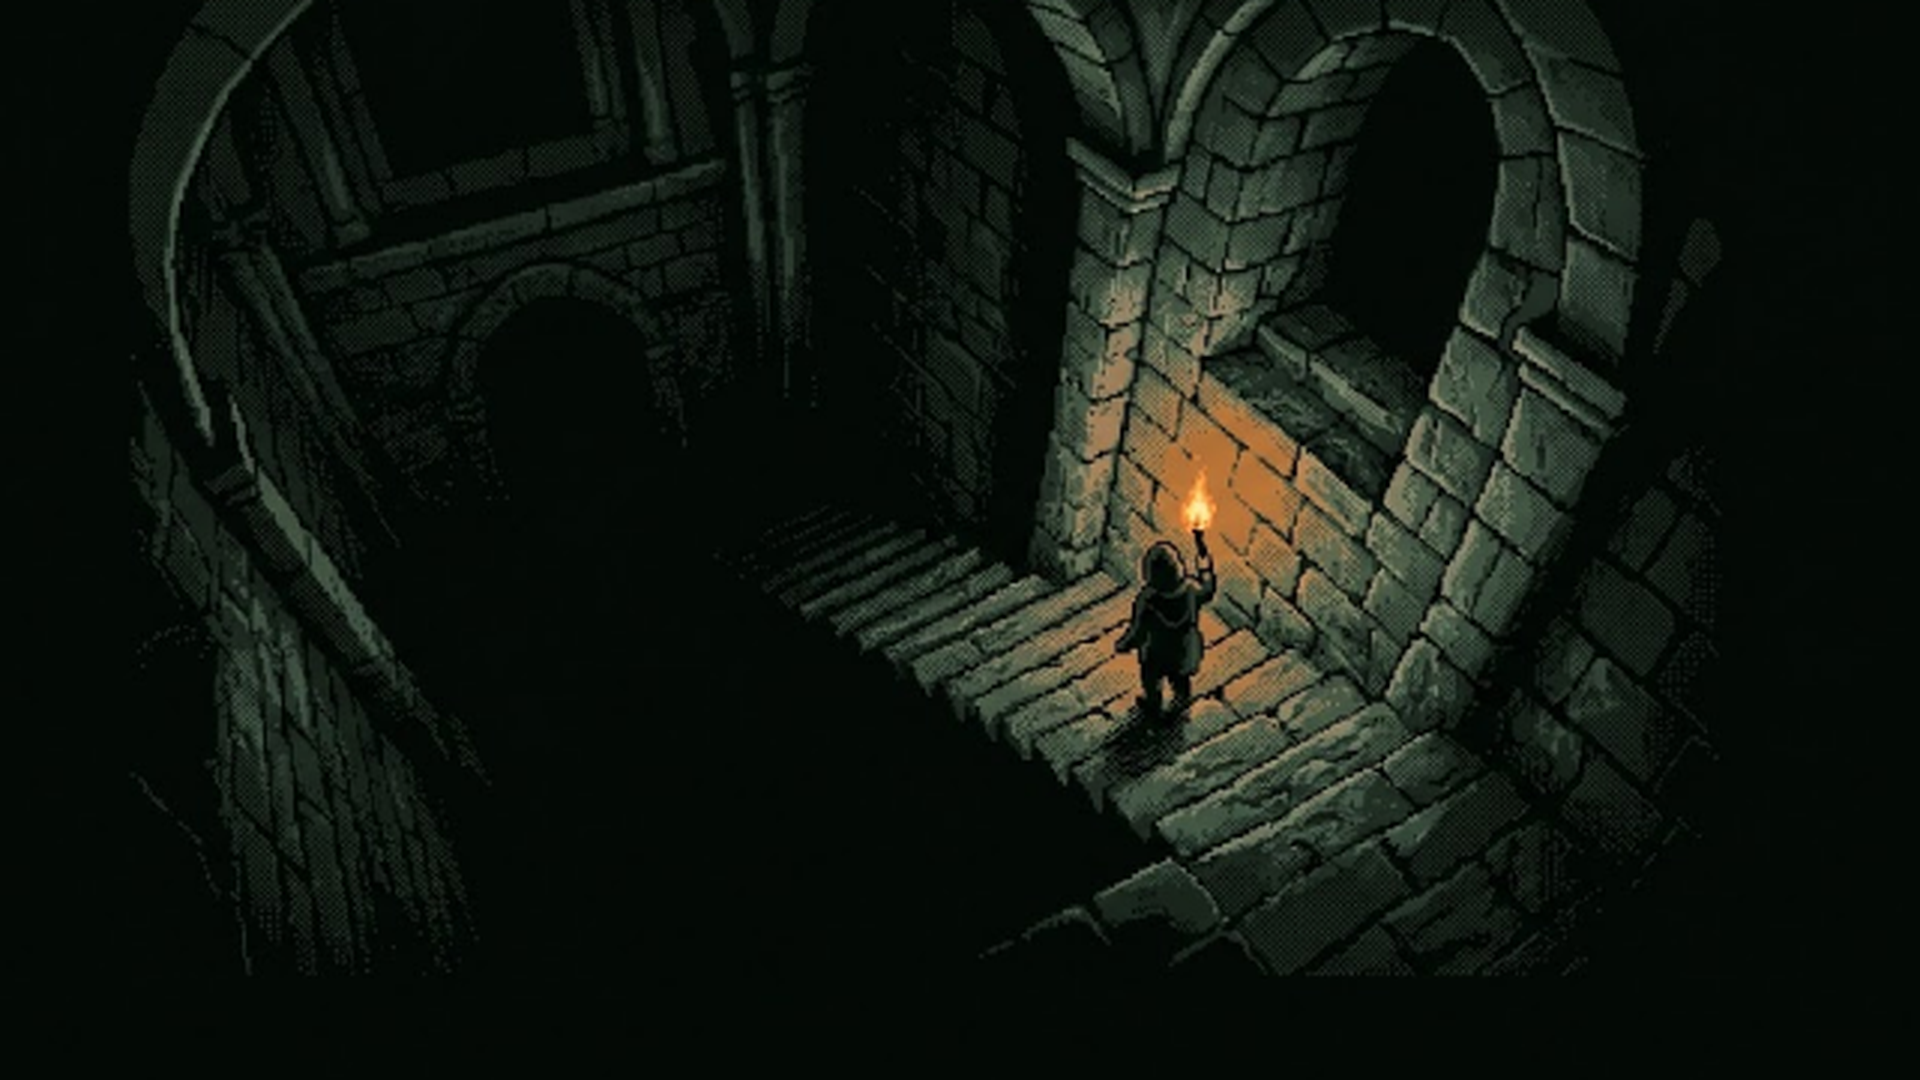
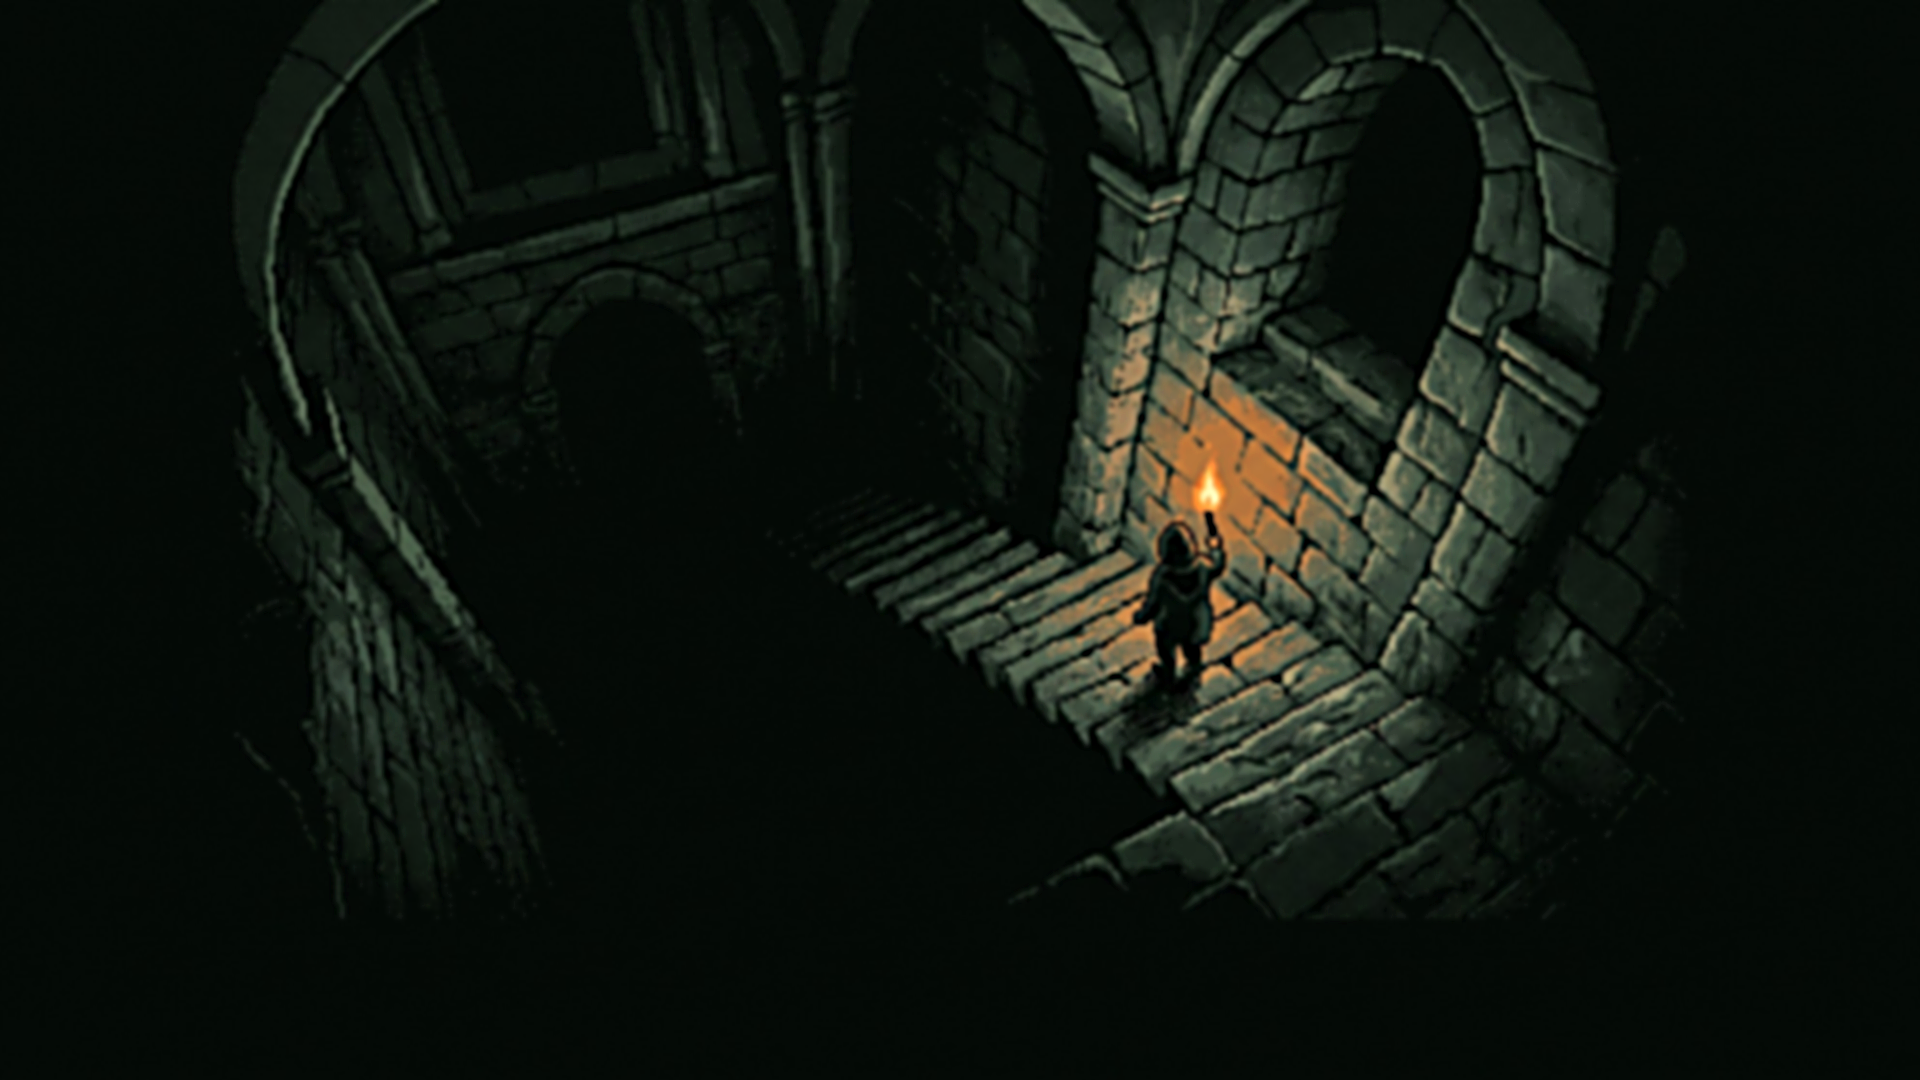
Ilustraciones nuevas de la intro, suavizadas y con el fuego propio

diff --git a/js/juego.js b/js/juego.js
@@ -252,14 +252,16 @@ window.openTitleMenu = () => {
 const ARTE_INTRO = {};
 for (const n of ['velombra', 'escalera', 'rey_llama', 'rey_apagada', 'velombra_apagada', 'boca']) ARTE_INTRO[n] = Object.assign(new Image(), { src: `interfaz/intro/${n}.png` });
 // El fuego del dibujo se mueve por filas: abajo queda quieto, sobre el cuenco, y arriba ondula más
-const LLAMA = { x: 188, w: 124, arriba: 6, abajo: 127 };
-function ondular(c, img, t, fuerza) {
-  const { x, w, arriba, abajo } = LLAMA, alto = abajo - arriba;
-  for (let y = arriba; y < abajo; y++) {
-    const k = Math.pow((abajo - y) / alto, 1.3);
-    const d = (Math.sin(y * 0.11 - t * 6.5) * 2.6 + Math.sin(y * 0.27 - t * 10.5) * 1.1) * k * fuerza;
-    const sube = (Math.sin(t * 7.3) * 0.5 + 0.5) * 5 * k * fuerza;
-    c.drawImage(img, x * 4, (y + sube) * 4, w * 4, 4, x + d, y, w, 1);
+const LLAMA = { x: 186, w: 112, arriba: 1, abajo: 112 };
+const LLAMA_TEMPLO = { x: 298, w: 28, arriba: 78, abajo: 97 };
+const LLAMA_ANTORCHA = { x: 293, w: 18, arriba: 109, abajo: 128 };
+function ondular(c, img, t, fuerza, zona = LLAMA) {
+  const { x, w, arriba, abajo } = zona, alto = abajo - arriba, paso = 0.25, f = fuerza * alto / 110;
+  for (let y = arriba; y < abajo; y += paso) {
+    const k = Math.pow((abajo - y) / alto, 1.3), r = (y - arriba) * 110 / alto;
+    const d = (Math.sin(r * 0.11 - t * 6.5) * 2.6 + Math.sin(r * 0.27 - t * 10.5) * 1.1) * k * f;
+    const sube = (Math.sin(t * 7.3) * 0.5 + 0.5) * 5 * k * f;
+    c.drawImage(img, x * 4, Math.round((y + sube) * 4), w * 4, 1, x + d, y, w, paso + 0.02);
   }
 }
 
@@ -268,14 +270,14 @@ function dibujarReyLlama(c, t) {
   if (k > 0) {
     ondular(c, ARTE_INTRO.rey_llama, t, 1);
     const luz = 0.1 + Math.sin(t * 9) * 0.03 + Math.sin(t * 23) * 0.02;
-    const g = c.createRadialGradient(245, 95, 8, 245, 95, 150);
+    const g = c.createRadialGradient(242, 80, 8, 242, 80, 150);
     g.addColorStop(0, `rgba(255, 130, 40, ${luz})`); g.addColorStop(1, 'rgba(255, 130, 40, 0)');
     c.save(); c.globalCompositeOperation = 'lighter'; c.fillStyle = g; c.fillRect(0, 0, 480, 270); c.restore();
     c.fillStyle = '#ffb45a';
     for (let i = 0; i < 12; i++) {
       const f = (t * 0.45 + hash2(i, 3, 9)) % 1;
       c.globalAlpha = (1 - f) * k;
-      c.fillRect(218 + hash2(i, 5, 2) * 50 + Math.sin(t * 3 + i) * 5, 118 - f * 112, 1, 1);
+      c.fillRect(216 + hash2(i, 5, 2) * 52 + Math.sin(t * 3 + i) * 5, 104 - f * 100, 0.5, 0.5);
     }
     c.globalAlpha = 1;
   }
@@ -288,8 +290,8 @@ function dibujarReyLlama(c, t) {
 }
 
 const ESCENAS_INTRO = [
-  { art: 'velombra', nitida: true, ramp: 'crypt', pan: [0, 0, 0, 0], sfx: 'fire', dibujar: (c, t) => drawFlame(c, 310, 97, 16, 24, t, 1, 'fuegoX') },
-  { art: 'escalera', nitida: true, ramp: 'crypt', pan: [0, 0, 0, 0], sfx: 'stairs', dibujar: (c, t) => drawFlame(c, 298, 134, 12, 20, t, 1, 'fuegoX') },
+  { art: 'velombra', nitida: true, ramp: 'crypt', pan: [0, 0, 0, 0], sfx: 'fire', dibujar: (c, t) => ondular(c, ARTE_INTRO.velombra, t, 1, LLAMA_TEMPLO) },
+  { art: 'escalera', nitida: true, ramp: 'crypt', pan: [0, 0, 0, 0], sfx: 'stairs', dibujar: (c, t) => ondular(c, ARTE_INTRO.escalera, t, 1, LLAMA_ANTORCHA) },
   { art: 'rey_llama', nitida: true, ramp: 'crypt', pan: [0, 0, 0, 0], sfx: 'fire', dibujar: dibujarReyLlama },
   { art: 'velombra_apagada', nitida: true, ramp: 'crypt', pan: [0, 0, 0, 0] },
   { art: 'boca', nitida: true, ramp: 'crypt', pan: [0, 0, 0, 0], sfx: 'whisper', dibujar: (c, t) => {

diff --git a/tools/suavizar_intro.py b/tools/suavizar_intro.py
@@ -1,0 +1,10 @@
+# Prepara una ilustración de la introducción: 1920x1080 y sin el escalonado del pixel art, para que no se pixele a pantalla completa.
+# Uso: python tools/suavizar_intro.py origen destino.png
+import sys
+from PIL import Image, ImageFilter
+im = Image.open(sys.argv[1]).convert('RGB')
+w = min(im.width, round(im.height * 16 / 9)); h = round(w * 9 / 16)
+x, y = (im.width - w) // 2, (im.height - h) // 2
+im = im.crop((x, y, x + w, y + h)).resize((1920, 1080), Image.LANCZOS)
+im = im.filter(ImageFilter.GaussianBlur(2.4)).filter(ImageFilter.UnsharpMask(radius=5, percent=110, threshold=2))
+im.save(sys.argv[2], optimize=True)
